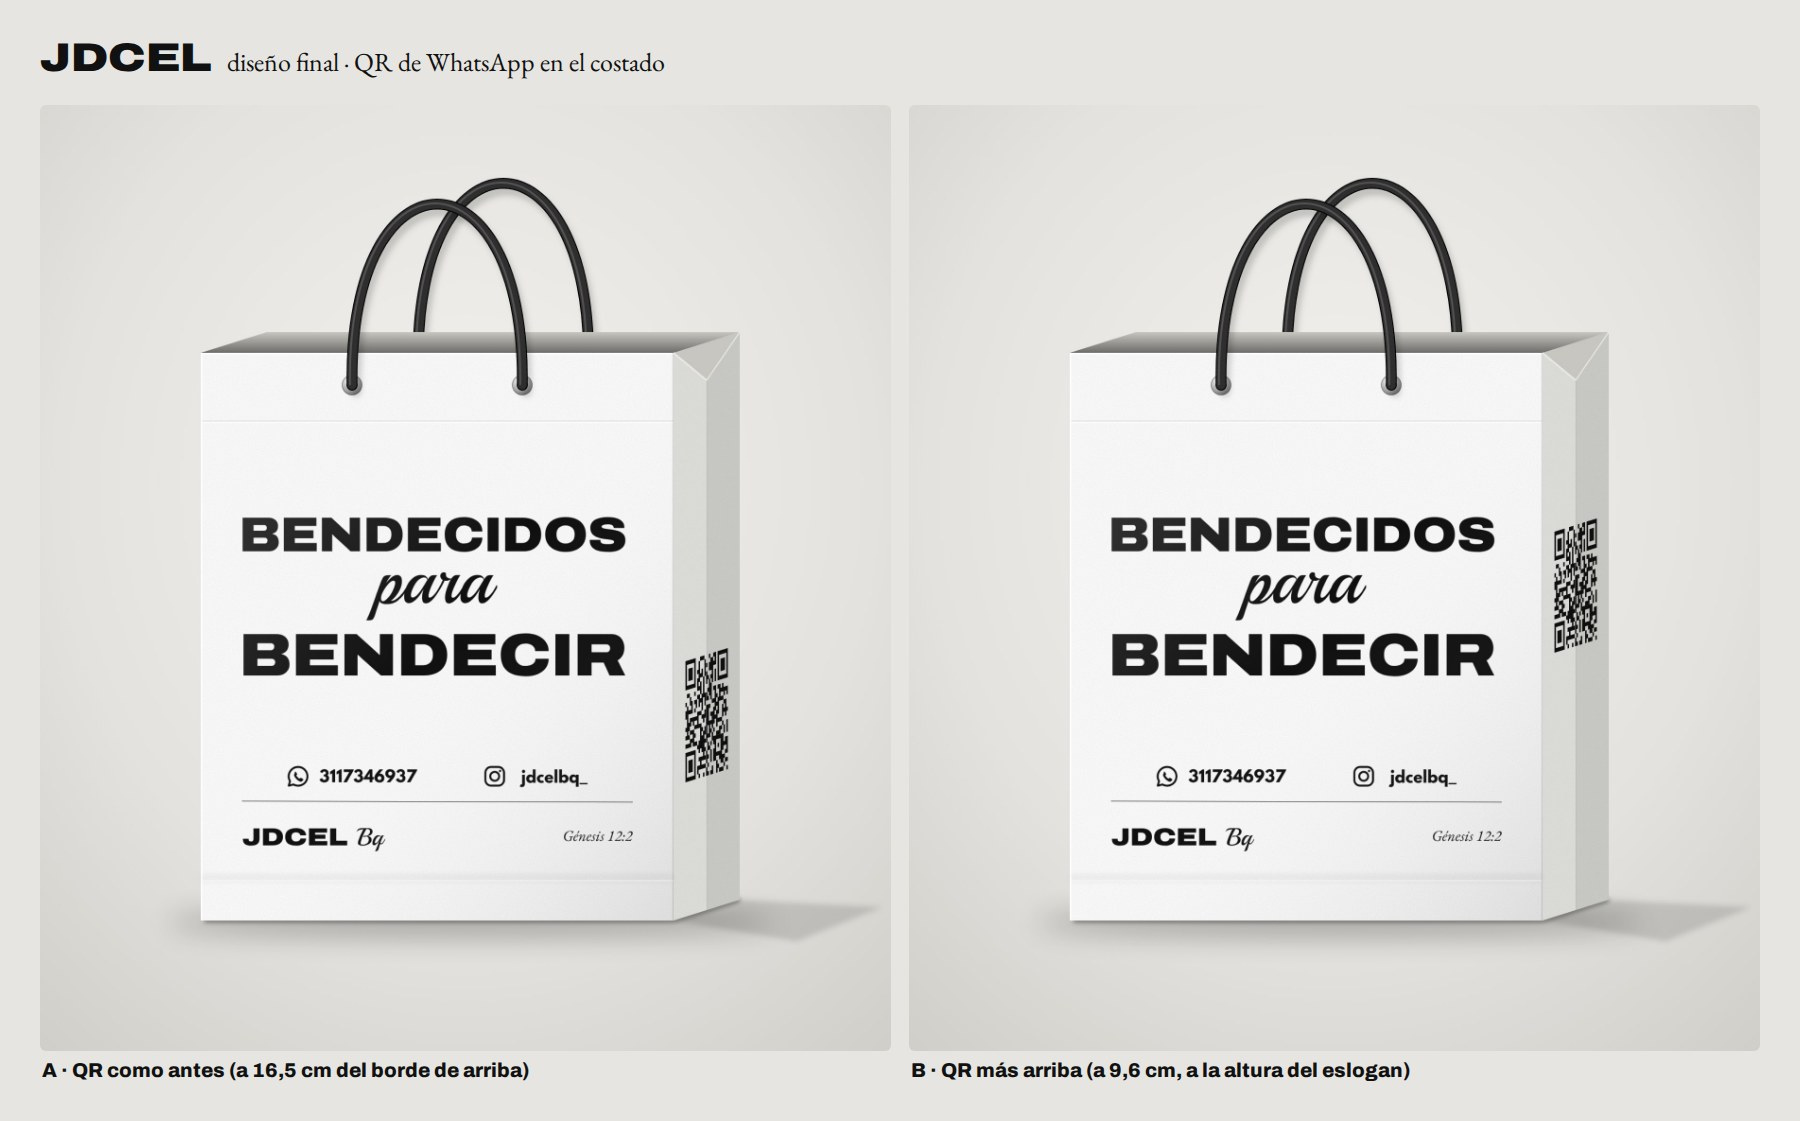
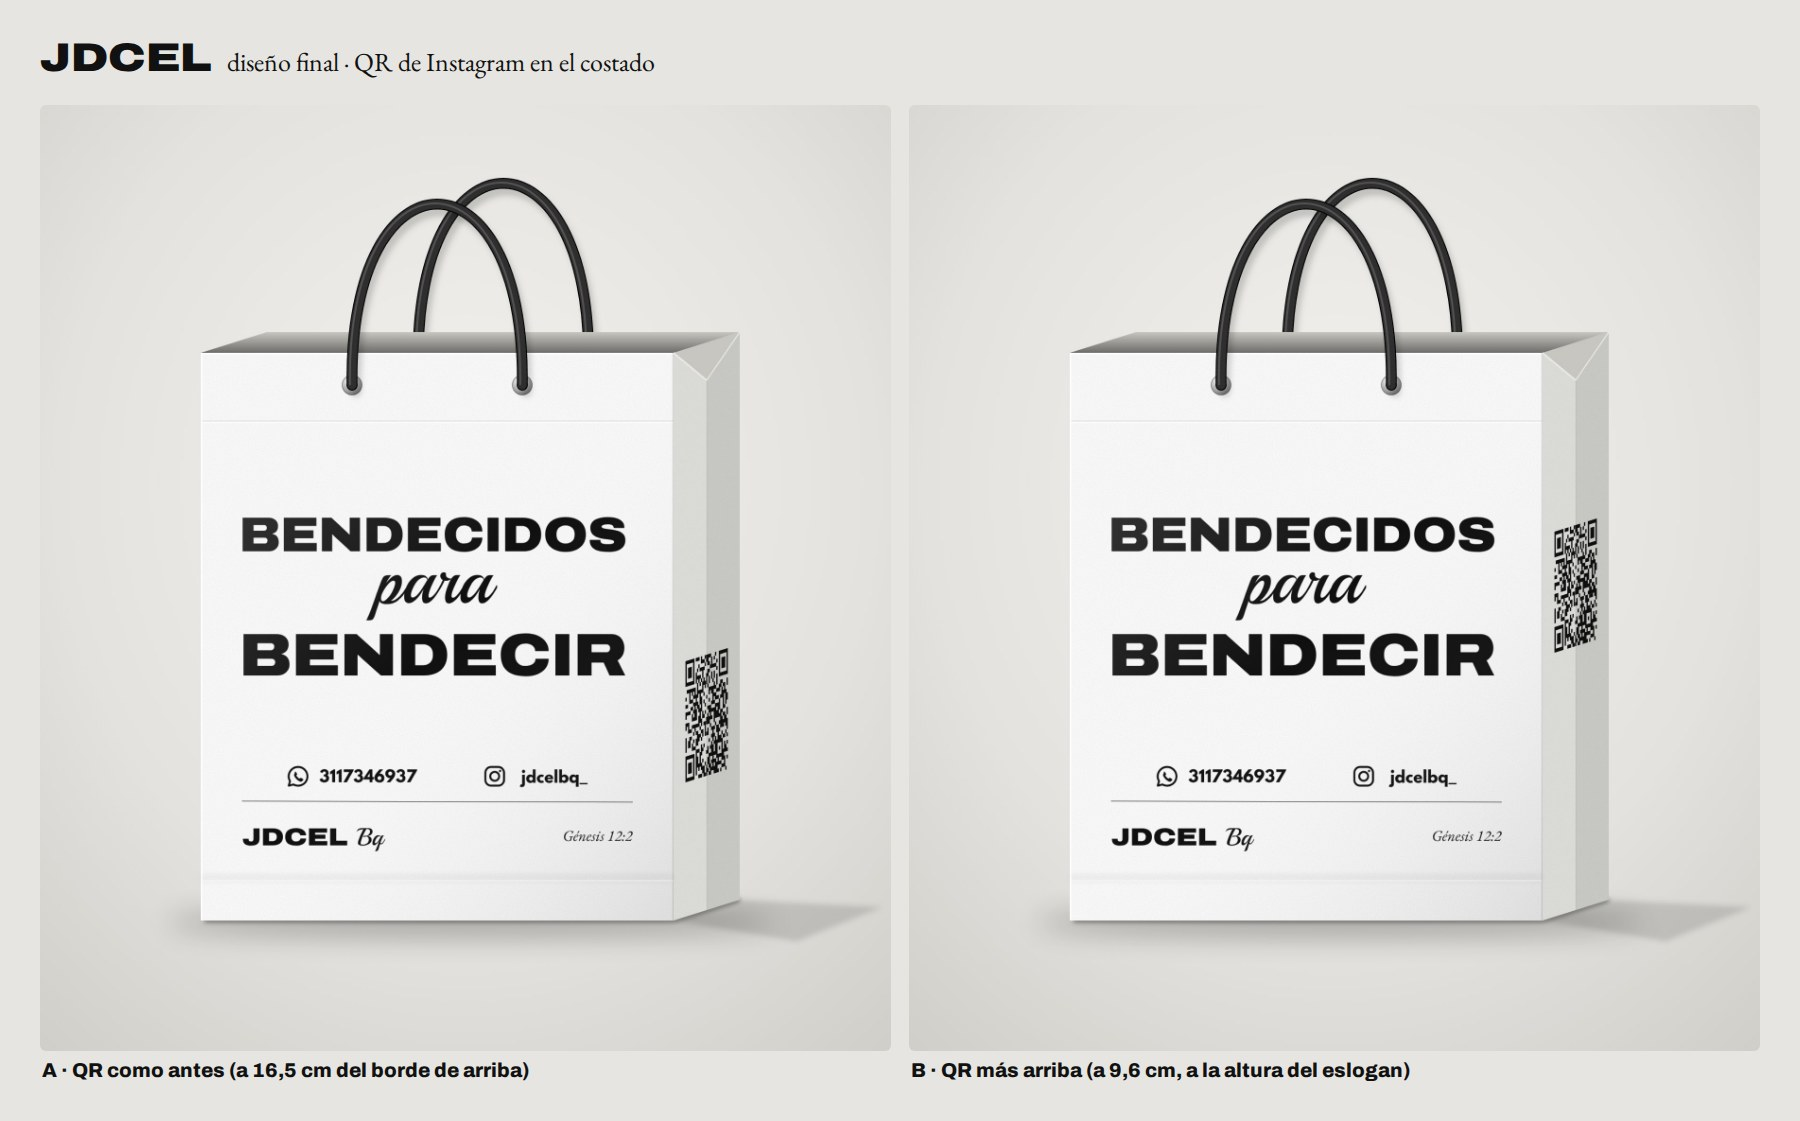
Cambiar el QR del diseño final para que abra el Instagram de la tienda
El QR del costado ahora lleva a https://www.instagram.com/jdcelbq_ en vez
del chat de WhatsApp. Se regeneraron las dos bolsas (A y B), la lámina
comparativa, el arte del costado y el QR suelto para Canva.

Claude-Session: https://claude.ai/code/session_01VnkotToXmrC5jDxRfMqBZq

Changed region(s): [[0.84, 0.4683, 0.9022, 0.5932], [0.2178, 0.0312, 0.3733, 0.0624], [0.3733, 0.562, 0.4044, 0.6869]]

diff --git a/bolsa-jdcel/README.md b/bolsa-jdcel/README.md
@@ -29,7 +29,7 @@ Propuestas de bolsa para **JDCEL Bq** (celulares) en negro y blanco. Todas manti
 | 09 | Reverso | Blanca | Cara trasera para cualquier opción: WhatsApp, Instagram, dirección y QR. | 1 tinta negra |
 | 10 | Monograma claro | Blanca | Diseño nuevo: patrón gris claro de JJ y cruces, logo grande y el WhatsApp y el Instagram reales al frente. El arte original está en `arte-frente/10-monograma-claro.png`. | Negro y gris claro (el gris como trama del negro) |
 
-Los textos entre corchetes (`[tu número]`, `[@tu_usuario]`, `[dirección del local]`) y el «¡Gracias por tu compra!» son de ejemplo. El QR de los bocetos es de relleno: hay que generar el real (por ejemplo, un enlace `wa.me` al número de la tienda).
+Los textos entre corchetes (`[tu número]`, `[@tu_usuario]`, `[dirección del local]`) y el «¡Gracias por tu compra!» son de ejemplo. El QR de los bocetos es de relleno; el real, que abre el Instagram de la tienda, está en `canva/elementos/qr-instagram-jdcelbq.png`.
 
 ## Ronda 2 · a partir de la referencia del cliente
 
@@ -51,12 +51,12 @@ Presentación: `JDCEL-propuestas-bolsa-ronda-2.pptx`. Para Canva: `canva/JDCEL-b
 
 ![Diseño final, versiones A y B](mockups/final-comparacion.jpg)
 
-El arte del frente es el del cliente (`arte-frente/final-frente.png`). En el costado va un QR real que abre el chat de WhatsApp del 311 734 6937 (`https://wa.me/573117346937`), en dos alturas:
+El arte del frente es el del cliente (`arte-frente/final-frente.png`). En el costado va un QR real que abre el Instagram de la tienda (`https://www.instagram.com/jdcelbq_`), en dos alturas:
 
 - **A · QR como antes:** a 16,5 cm del borde de arriba (`mockups/final-a-qr-como-antes.jpg`).
 - **B · QR más arriba:** a 9,6 cm, a la altura del eslogan grande (`mockups/final-b-qr-mas-arriba.jpg`).
 
-El QR mide 6,4 × 6,4 cm y va centrado en el costado de 10 cm. Para montarlo en Canva: `canva/elementos/qr-whatsapp-3117346937.png` (o `.svg`). El costado completo (10 × 30 cm) en las dos alturas está en `arte-fuelle/`. Ese costado se dobla por la mitad cuando la bolsa se guarda plana, así que conviene probar el QR impreso antes del tiraje.
+El QR mide 6,4 × 6,4 cm y va centrado en el costado de 10 cm. Para montarlo en Canva: `canva/elementos/qr-instagram-jdcelbq.png` (o `.svg`). El costado completo (10 × 30 cm) en las dos alturas está en `arte-fuelle/`. Ese costado se dobla por la mitad cuando la bolsa se guarda plana, así que conviene probar el QR impreso antes del tiraje.
 
 ## Producción
 
